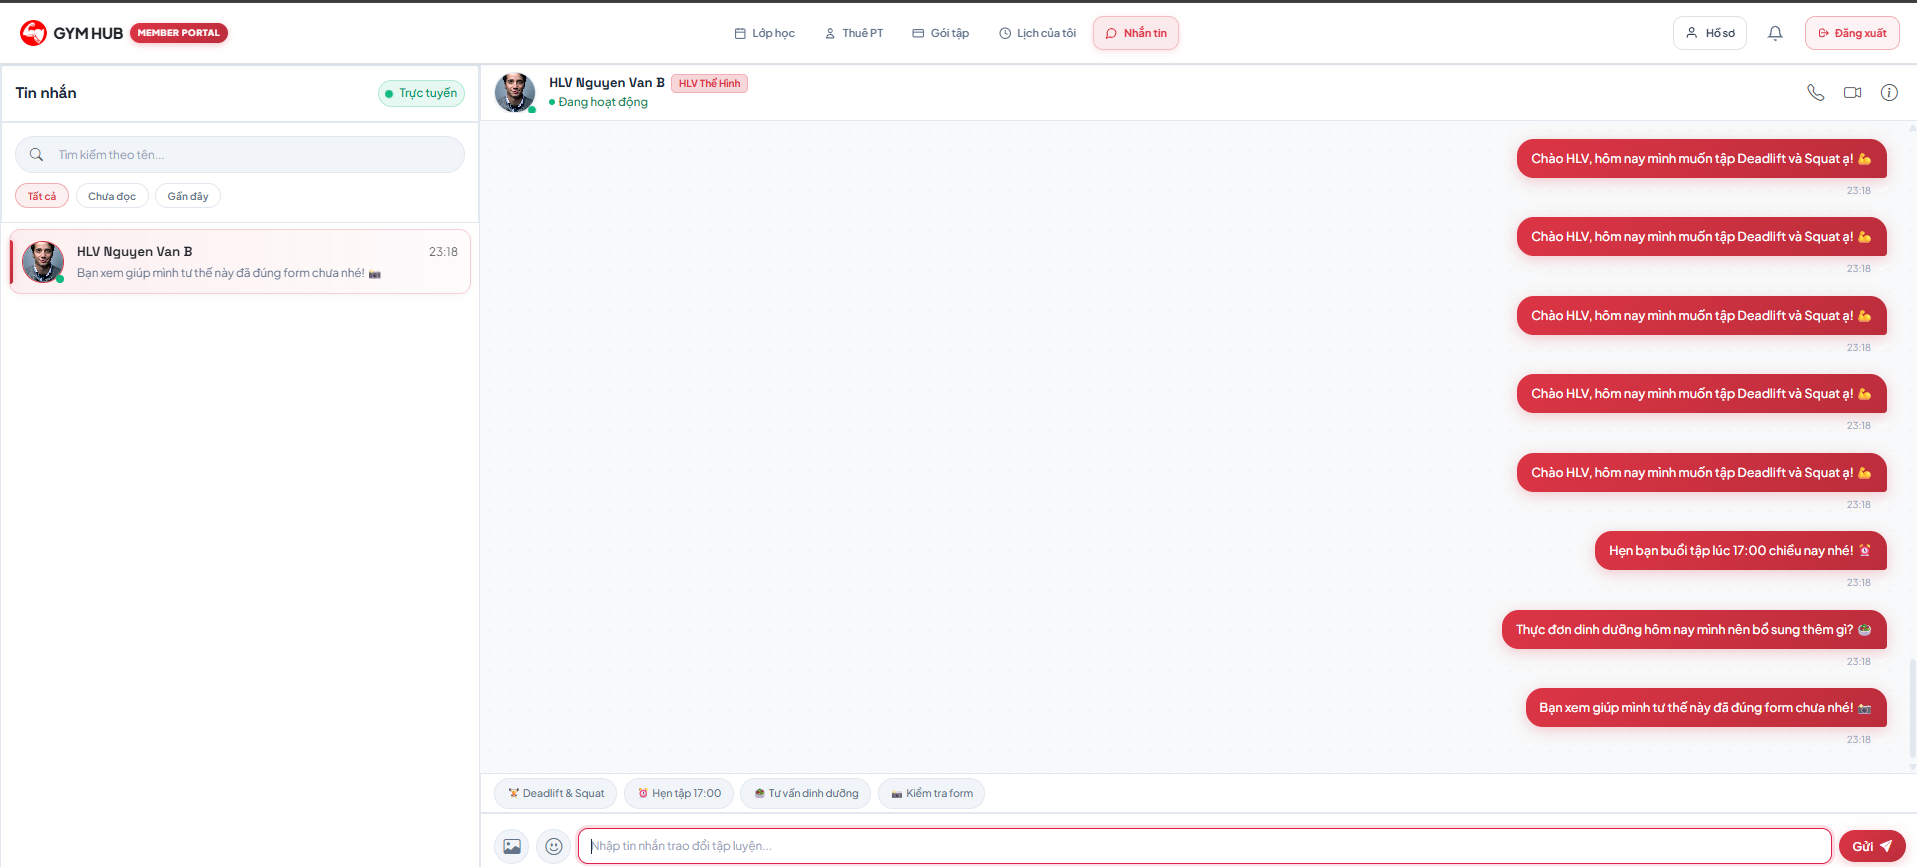
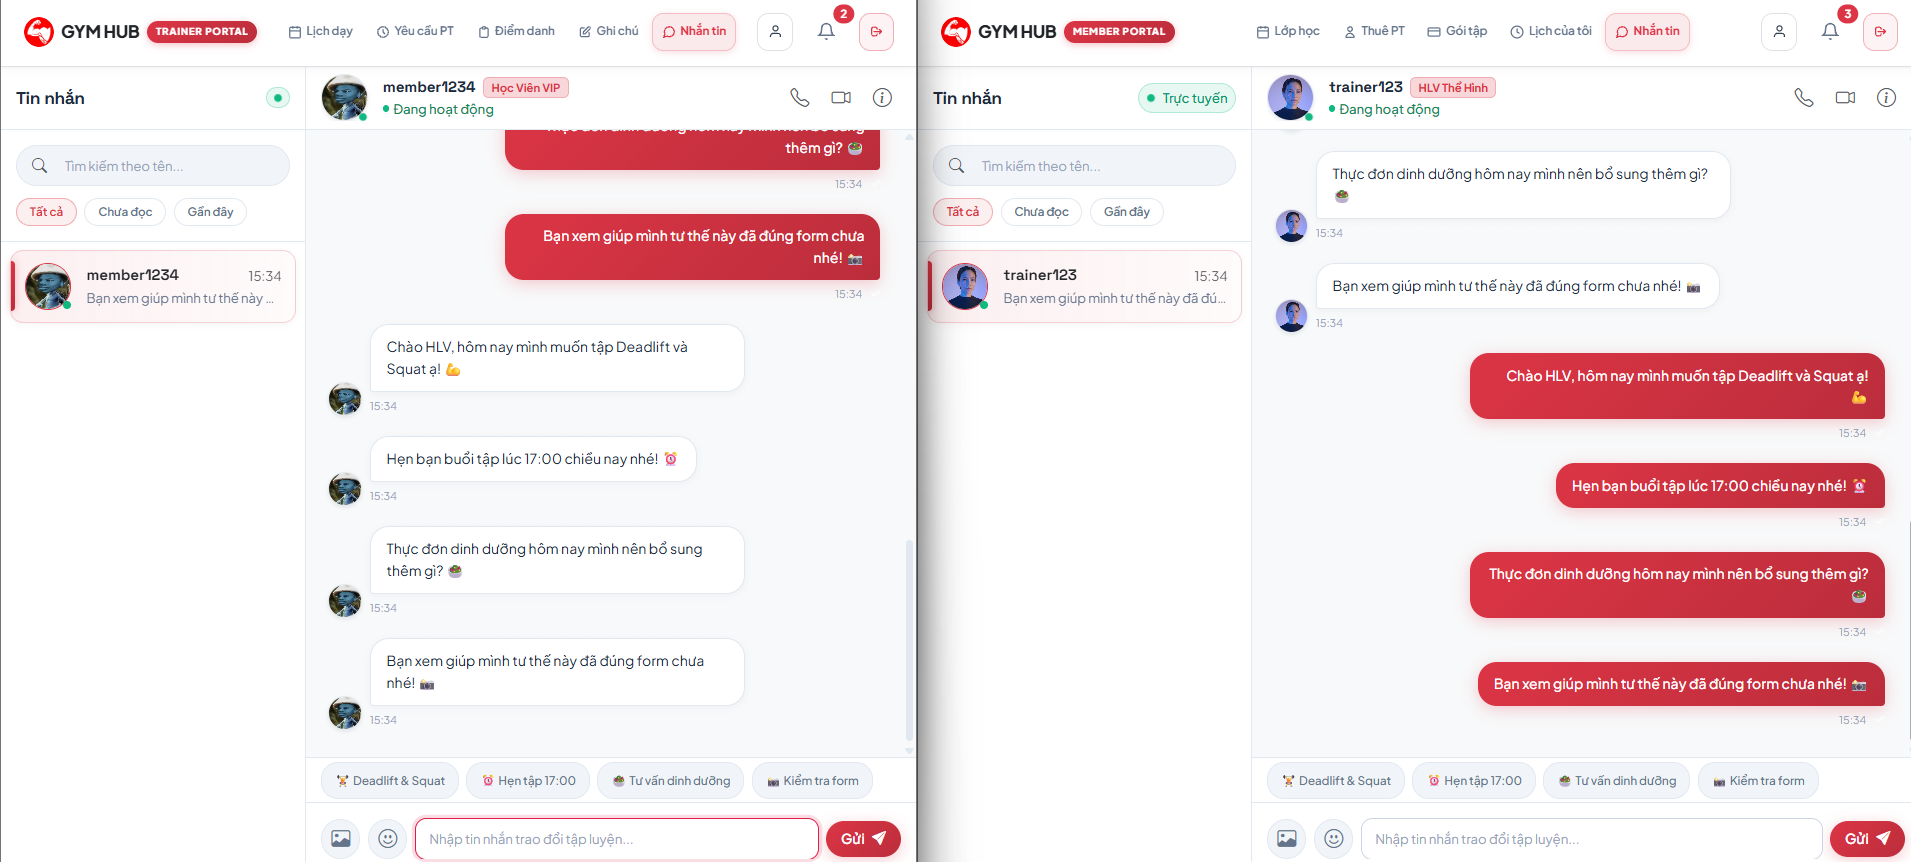
feat: implement JWT expiration handling

diff --git a/frontend-app/src/core/api.ts b/frontend-app/src/core/api.ts
@@ -55,6 +55,30 @@ export const apiClient = axios.create({
 export const axiosInstance = apiClient;
 
 // ============================================================
+// Helper: Check JWT Expiration
+// ============================================================
+
+export function isTokenExpired(token: string): boolean {
+  try {
+    const parts = token.split(".");
+    if (parts.length < 2) return true;
+    const base64 = parts[1].replace(/-/g, "+").replace(/_/g, "/");
+    const jsonStr = decodeURIComponent(
+      atob(base64)
+        .split("")
+        .map((c) => "%" + ("00" + c.charCodeAt(0).toString(16)).slice(-2))
+        .join(""),
+    );
+    const payload = JSON.parse(jsonStr);
+    if (!payload.exp) return false;
+    // Buffer of 10 seconds before expiration
+    return Date.now() >= payload.exp * 1000 - 10000;
+  } catch {
+    return false;
+  }
+}
+
+// ============================================================
 // Request interceptor
 // ============================================================
 
@@ -72,6 +96,12 @@ apiClient.interceptors.request.use(
       );
 
       if (accessToken) {
+        if (isTokenExpired(accessToken)) {
+          clearAuthAndRedirect();
+          return Promise.reject(
+            new Error("Phiên đăng nhập đã hết hạn. Vui lòng đăng nhập lại."),
+          );
+        }
         config.headers.Authorization =
           `Bearer ${accessToken}`;
       }
@@ -115,7 +145,7 @@ apiClient.interceptors.response.use(
     );
 
     if (
-      status === 401 &&
+      (status === 401 || status === 403) &&
       !isPublicEndpoint
     ) {
       clearAuthAndRedirect();

diff --git a/src/main/java/com/gym/gym_booking/service/impl/NotificationServiceImpl.java b/src/main/java/com/gym/gym_booking/service/impl/NotificationServiceImpl.java
@@ -37,13 +37,15 @@ public class NotificationServiceImpl implements NotificationService {
         Authentication authentication = SecurityContextHolder.getContext().getAuthentication();
         if (authentication == null || !authentication.isAuthenticated()
                 || "anonymousUser".equals(authentication.getName())) {
-            throw new RuntimeException("Unauthorized: User is not authenticated");
+            throw new org.springframework.web.server.ResponseStatusException(
+                    org.springframework.http.HttpStatus.UNAUTHORIZED, "User is not authenticated");
         }
 
         String principal = authentication.getName();
         return userRepository.findByPhoneOrEmail(principal, principal)
                 .or(() -> userRepository.findByEmail(principal))
-                .orElseThrow(() -> new RuntimeException("User not found: " + principal));
+                .orElseThrow(() -> new org.springframework.web.server.ResponseStatusException(
+                        org.springframework.http.HttpStatus.NOT_FOUND, "User not found: " + principal));
     }
 
     @Override

diff --git a/src/main/java/com/gym/gym_booking/config/SecurityConfig.java b/src/main/java/com/gym/gym_booking/config/SecurityConfig.java
@@ -1,5 +1,6 @@
 package com.gym.gym_booking.config;
 
+import jakarta.servlet.http.HttpServletResponse;
 import java.util.Arrays;
 
 import org.springframework.context.annotation.Bean;
@@ -40,6 +41,14 @@ public class SecurityConfig {
                 .cors(Customizer.withDefaults()) 
                 
                 .csrf(csrf -> csrf.disable())
+
+                .exceptionHandling(ex -> ex
+                        .authenticationEntryPoint((request, response, authException) -> {
+                            response.setStatus(HttpServletResponse.SC_UNAUTHORIZED);
+                            response.setContentType("application/json;charset=UTF-8");
+                            response.getWriter().write("{\"code\":\"UNAUTHORIZED\",\"message\":\"Phiên đăng nhập đã hết hạn hoặc không hợp lệ. Vui lòng đăng nhập lại.\"}");
+                        })
+                )
 
                 .sessionManagement(session ->
                         session.sessionCreationPolicy(
